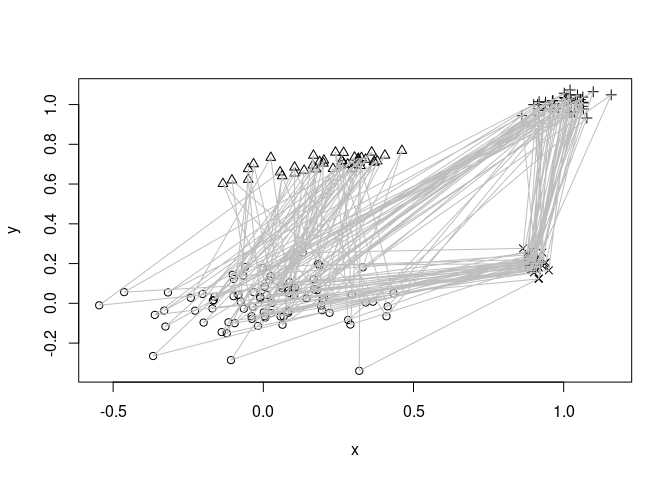
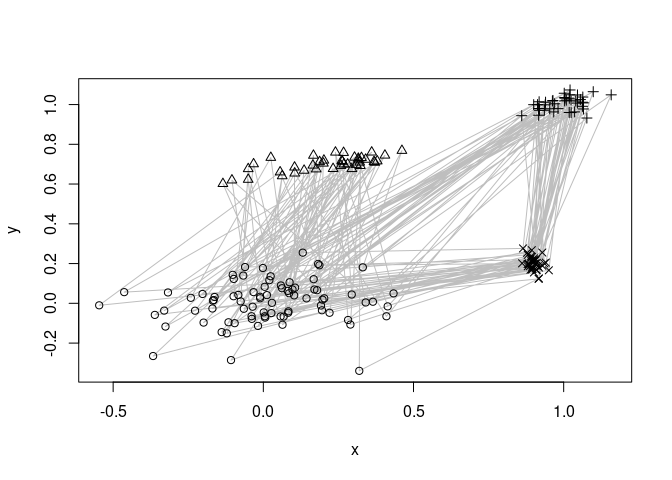
added stream interface.

diff --git a/README.md b/README.md
@@ -1,6 +1,5 @@
-R package rEMM: Extensible Markov Model for Modelling Temporal
-Relationships Between Clusters
-================
+
+# <img src='man/figures/logo.svg' align="right" height="139" />R package rEMM: Extensible Markov Model for Modelling Temporal Relationships Between Clusters
 
 [![CRAN
 version](http://www.r-pkg.org/badges/version/rEMM)](https://CRAN.R-project.org/package=rEMM)
@@ -15,6 +14,9 @@ transition probabilities in sequence data. TRACDS adds a temporal or
 order model to data stream clustering by superimposing a dynamically
 adapting Markov Chain. Also provides an implementation of EMM (TRACDS on
 top of tNN data stream clustering).
+
+Interface classes DSC_tNN and DSC_EMM for the [stream
+package](https://github.com/mhahsler/stream) are provided.
 
 ## Installation
 
@@ -38,8 +40,9 @@ library(rEMM)
 
 data("EMMsim")
 
-plot(EMMsim_train, pch = EMMsim_sequence_train)
+plot(EMMsim_train, pch = NA)
 lines(EMMsim_train, col = "gray")
+points(EMMsim_train, pch = EMMsim_sequence_train)
 ```
 
 ![](inst/README_files/example_data-1.png)<!-- -->

diff --git a/NEWS.md b/NEWS.md
@@ -1,5 +1,9 @@
-# Changes in version 1.1.0-1 (xx/xx/2022)
+# Changes in version 1.2.0 (06/25/2022)
+* added interface for package stream
 
+# Changes in version 1.1.1 (05/31/2022)
+* score gained parameter random
+* cleanup.
 
 # Changes in version 1.1.0 (10/27/2021)
 
